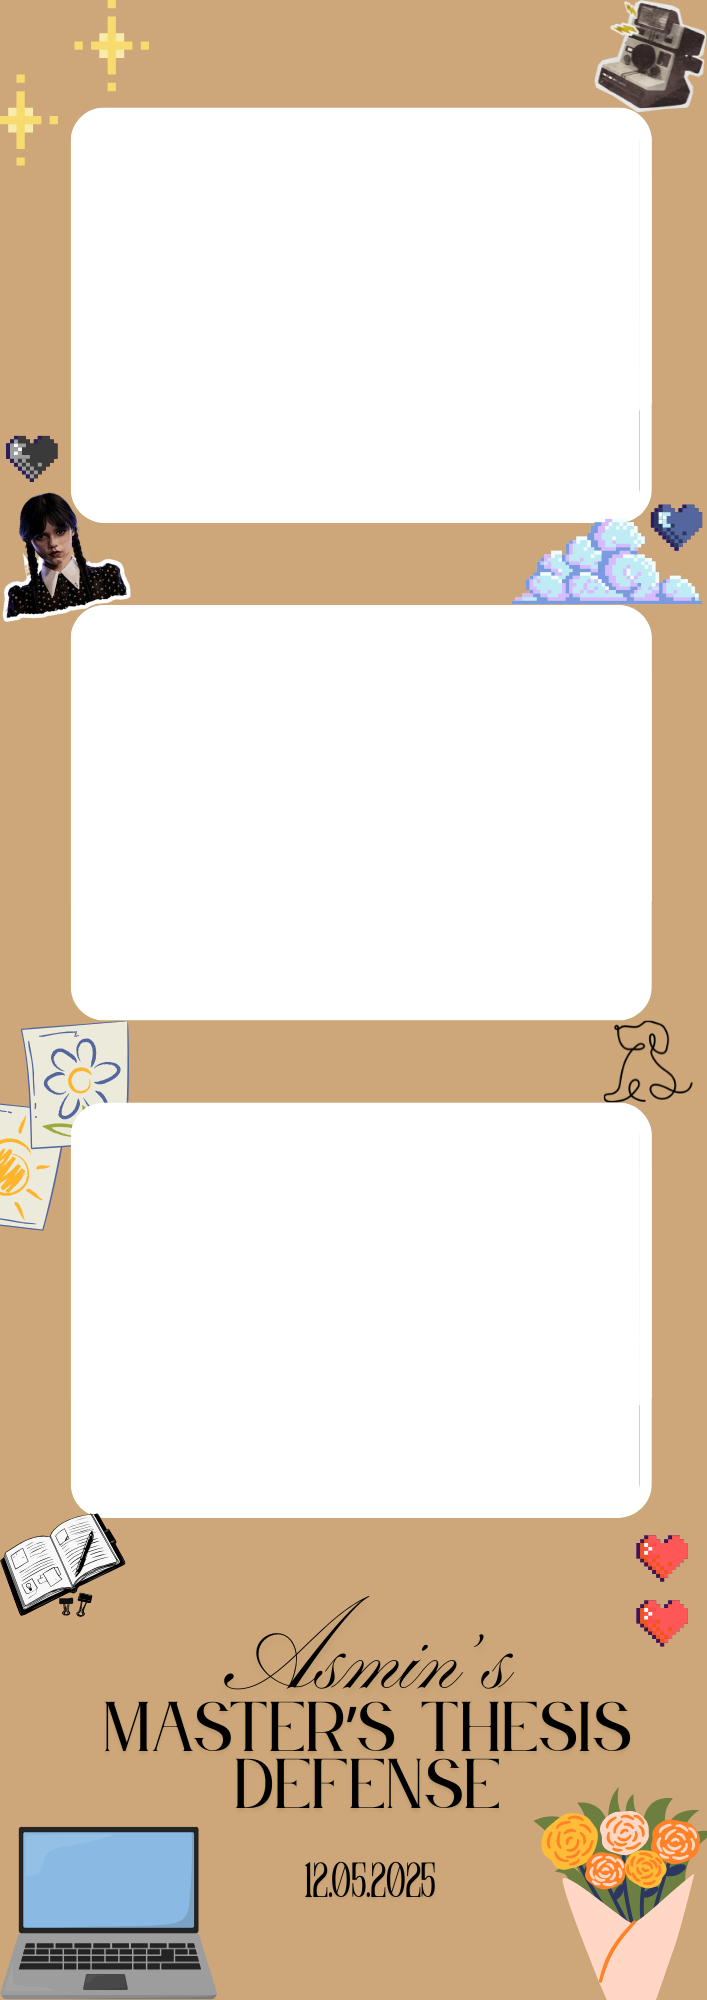
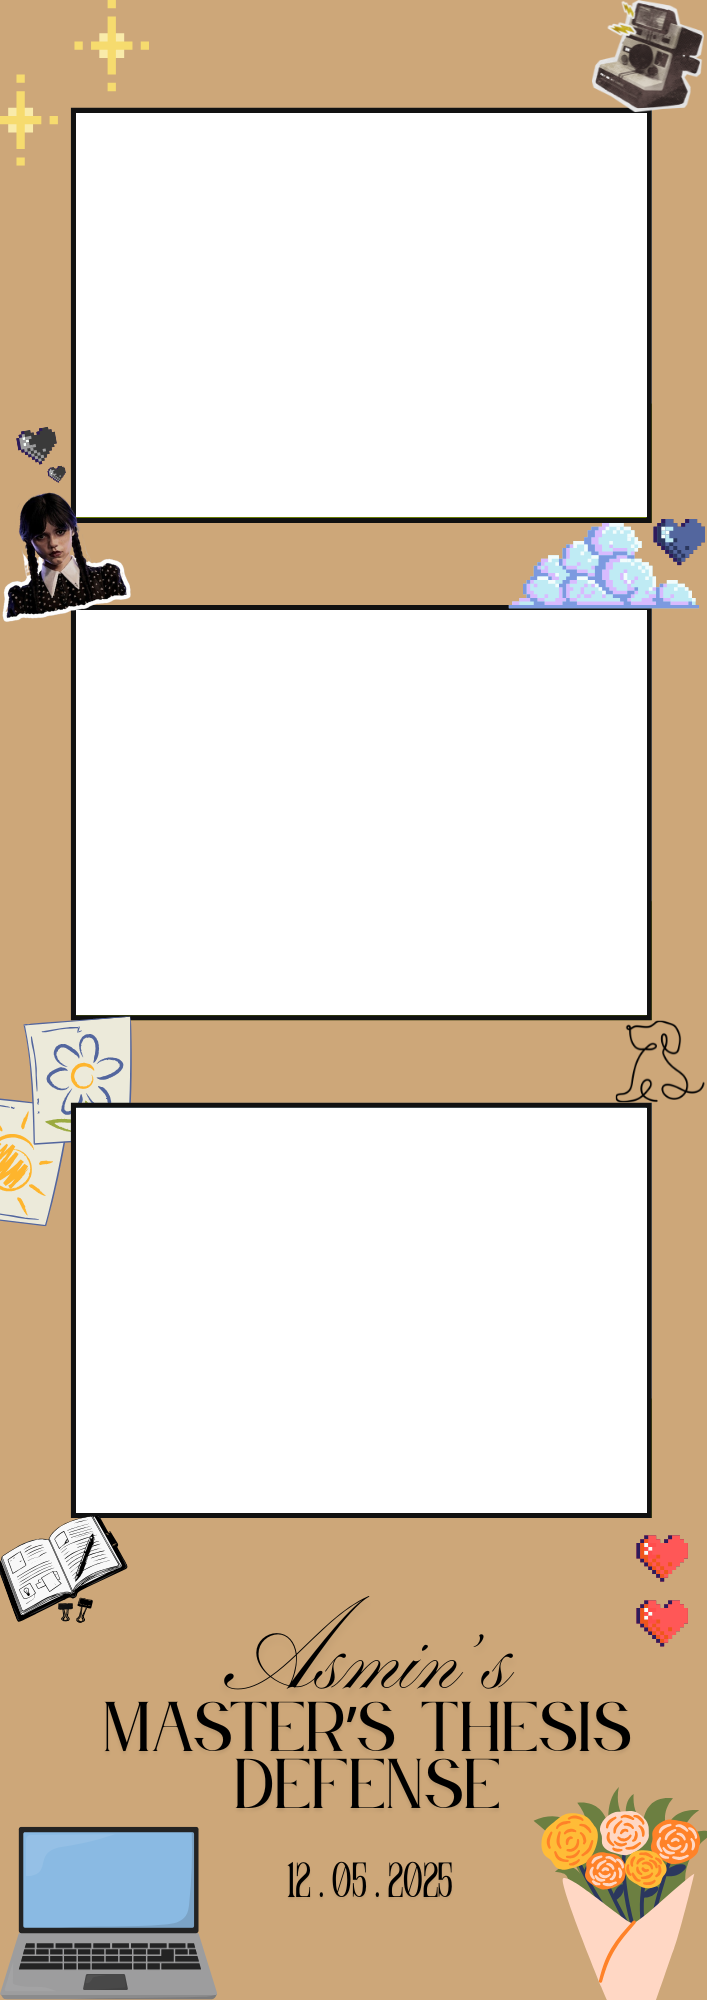
fixed frame + positions

diff --git a/script.js b/script.js
@@ -76,8 +76,8 @@ function mergePhotos(images) {
     const template = new Image();
     template.src = 'assets/design2.png';
 
-    const positions = [55, 330, 600]; // Y-coordinates of the 3 photo slots
-    const photoWidth = 296;
+    const positions = [56, 327, 592]; // Y-coordinates of the 3 photo slots
+    const photoWidth = 305;
     const photoHeight = 220;
     const photoX = 41; // Horizontal offset to center the photo inside the slot
 

diff --git a/style.css b/style.css
@@ -38,7 +38,7 @@ body.landing {
   display: flex;
   flex-direction: row;
   align-items: flex-start;
-  gap: 8vw; /* responsive horizontal gap */
+  gap: 11.8vw; /* responsive horizontal gap */
   position: relative;
   padding-top: 8vh; /* move row down */
 }
